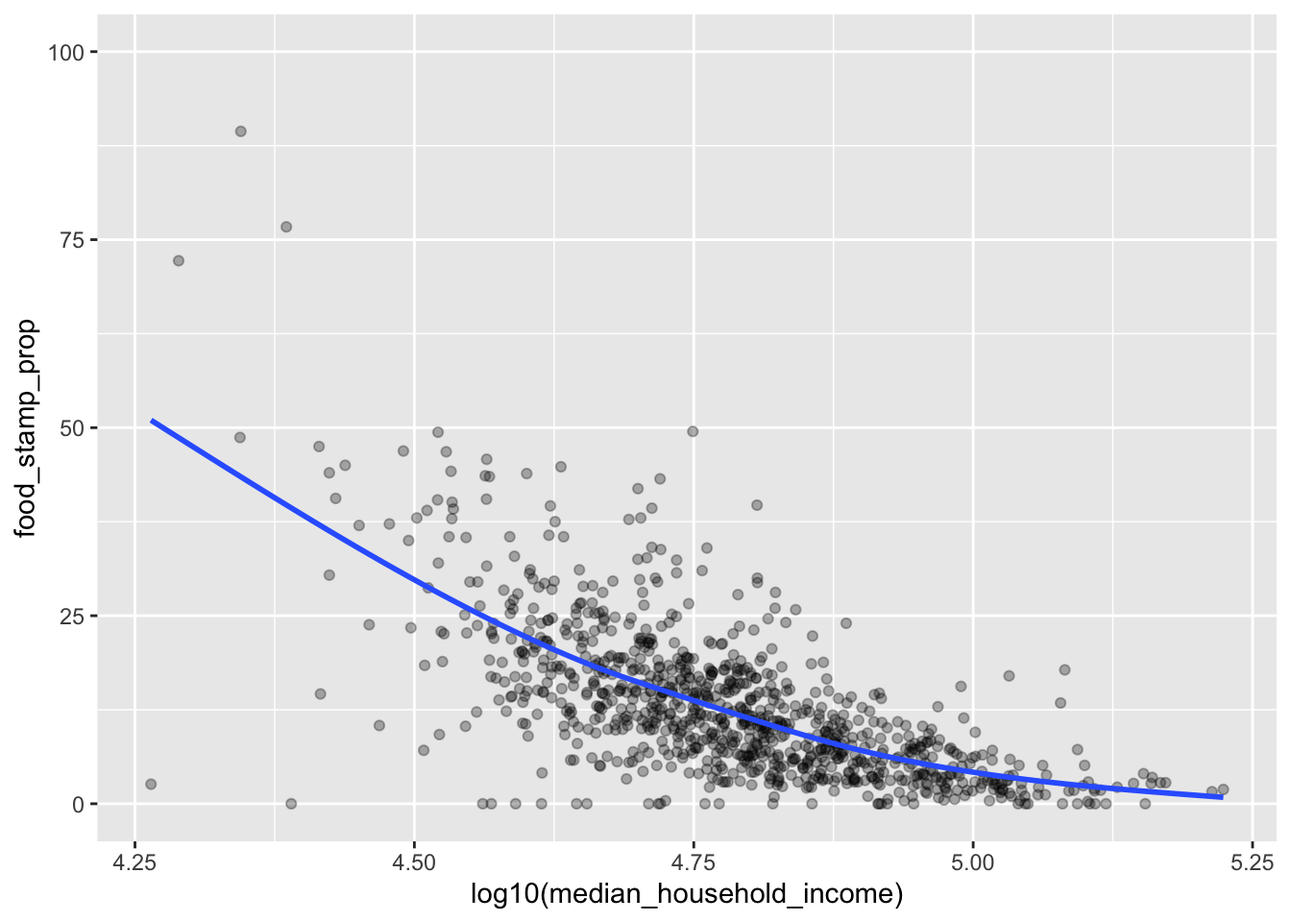
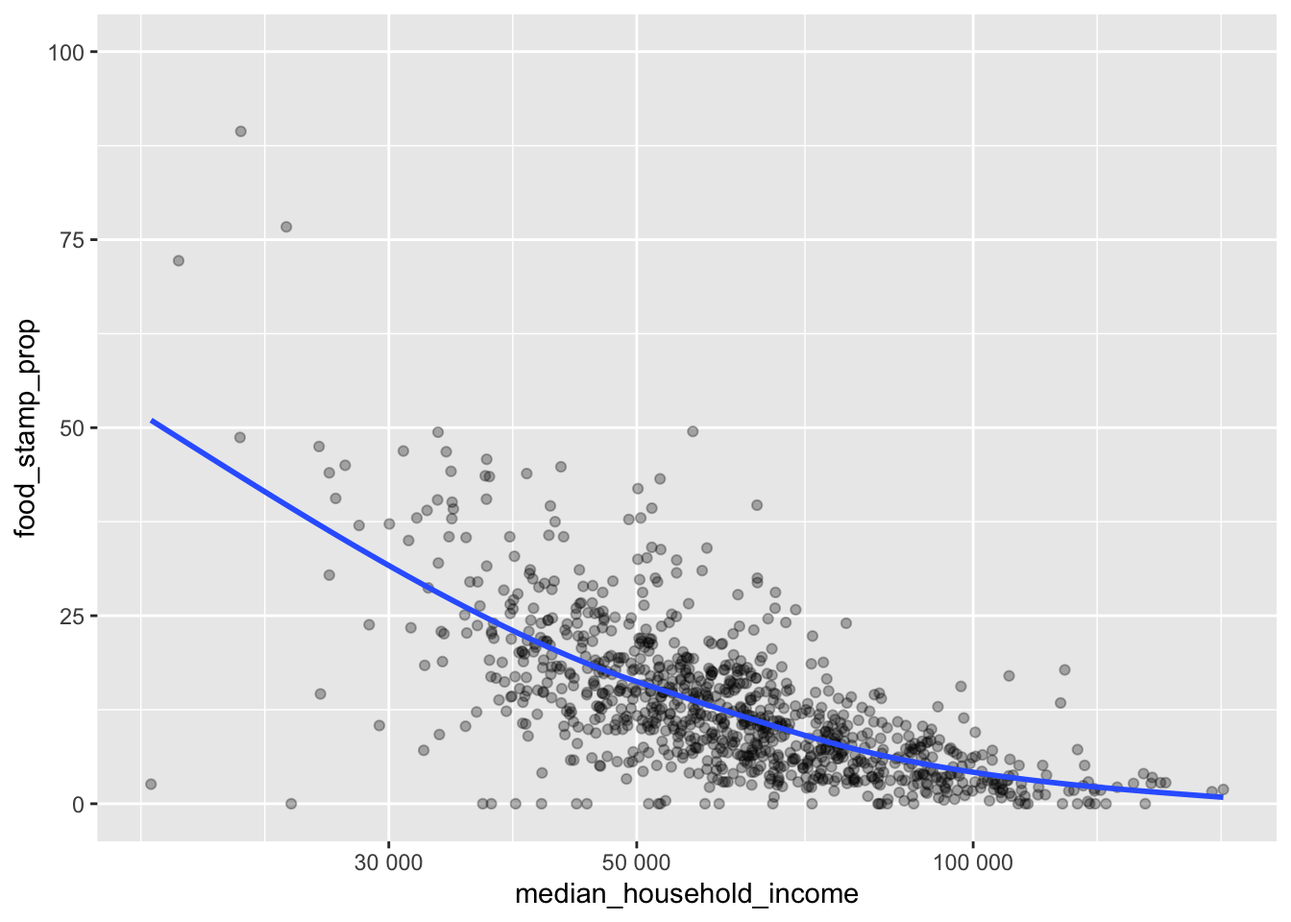
finished!! all lessons edited twice. I'm sure there's still some more minor mistakes that I will find, but I think it's ready for videos now.

diff --git a/_site/lessons/lesson13_eda_w_tidyverse.html b/_site/lessons/lesson13_eda_w_tidyverse.html
@@ -334,10 +334,10 @@ code span.wa { color: #60a0b0; font-weight: bold; font-style: italic; } /* Warni
 </section>
 <section id="importing-data" class="level1">
 <h1>Importing Data</h1>
-<p>We will work through some of the American Community Survey data from the U.S. Census Bureau. If you have not yet done so, download the ACS Supplemental Nutrition Assistance Program (SNAP) benefits data (“FOOD STAMPS/Supplemental Nutrition Assistance Program (SNAP) 2012-2016 American Community Survey 5-Year Estimates”) for 2021 (use the steps we worked out in Lesson 08).</p>
+<p>We will work through some of the <a href="https://www.census.gov/programs-surveys/acs">American Community Survey</a> data from the U.S. Census Bureau. If you have not yet done so, download the ACS “food stamps” data (“FOOD STAMPS/Supplemental Nutrition Assistance Program (SNAP) American Community Survey 5-Year Estimates”) for 2021 (use the steps we worked out in Lesson 08).</p>
 <section id="the-raw-data" class="level2">
 <h2 class="anchored" data-anchor-id="the-raw-data">The Raw Data</h2>
-<p><em>You should have already done all this in lesson 8.</em> However, if you did not complete that exercise, download the data and metadata from GitHub. You should have a metadata file called <code>ACSST5Y2021.S2201-Column-Metadata.csv</code> which explains all the variable names and a data file called <code>ACSST5Y2021.S2201-Data.csv</code> that contains some of the features of interest.</p>
+<p><em>You should have already downloaded the raw data in lesson 8.</em> However, if you did not complete that exercise, download the data and metadata <a href="https://github.com/gabrielodom/PHC6701_r4ds/tree/main/_data">from the GitHub repository for this class</a>. You should have a metadata file called <code>ACSST5Y2021.S2201-Column-Metadata.csv</code> which explains all the variable names and a data file called <code>ACSST5Y2021.S2201-Data.csv</code> that contains some of the features of interest.</p>
 </section>
 <section id="read-the-data" class="level2">
 <h2 class="anchored" data-anchor-id="read-the-data">Read the Data</h2>
@@ -419,7 +419,7 @@ chr (2): Column Name, Label
 #   S2201_C01_010E &lt;dbl&gt;, S2201_C01_010M &lt;dbl&gt;, S2201_C01_011E &lt;dbl&gt;, …</code></pre>
 </div>
 </div>
-<p>There are 457 columns of information (459 - 2 index columns), and it looks like all of these columns have bizarre codes for their names. Also, many of the columns are numeric and many are character (some columns that are character shouldn’t be).</p>
+<p>There are 457 columns of information (459 - 2 index columns), and it looks like all of these columns have bizarre codes for their names.</p>
 <p>Now for the metadata:</p>
 <div class="cell">
 <div class="sourceCode cell-code" id="cb10"><pre class="sourceCode r code-with-copy"><code class="sourceCode r"><span id="cb10-1"><a href="#cb10-1" aria-hidden="true" tabindex="-1"></a>FLmetadata_df</span></code><button title="Copy to Clipboard" class="code-copy-button"><i class="bi"></i></button></pre></div>
@@ -441,6 +441,19 @@ chr (2): Column Name, Label
 </div>
 </div>
 <p>The first column of this data looks exactly like the crazy column names of the main data set. This information should allow us to find out what the column codes mean.</p>
+<div class="callout-note callout callout-style-default callout-captioned">
+<div class="callout-header d-flex align-content-center">
+<div class="callout-icon-container">
+<i class="callout-icon"></i>
+</div>
+<div class="callout-caption-container flex-fill">
+Exercise
+</div>
+</div>
+<div class="callout-body-container callout-body" title="Exercise">
+<p>Spend some time looking through the columns of this dataset and their classes. Many of the columns are numeric and many are character; some columns that are character shouldn’t be. Discuss this with your neighbours and think about solutions to figure out how to detect columns that should be numeric but are not.</p>
+</div>
+</div>
 </section>
 <section id="updated-summary-function" class="level3">
 <h3 class="anchored" data-anchor-id="updated-summary-function">Updated Summary Function</h3>
@@ -463,7 +476,7 @@ chr (2): Column Name, Label
 </section>
 <section id="apply-to-the-raw-data" class="level3">
 <h3 class="anchored" data-anchor-id="apply-to-the-raw-data">Apply to the Raw Data</h3>
-<p>Now that we have an updated function to take summaries of a tibble across the columns, let’s apply it to each column of the data (because this will print almost 500 results, we will to a random set of 50 columns):</p>
+<p>Now that we have an updated function to take summaries of a tibble across the columns, let’s apply it to each column of the data (because this will print almost 500 results, we will apply this function to a random set of 50 columns as an example):</p>
 <div class="cell">
 <div class="sourceCode cell-code" id="cb13"><pre class="sourceCode r code-with-copy"><code class="sourceCode r"><span id="cb13-1"><a href="#cb13-1" aria-hidden="true" tabindex="-1"></a><span class="fu">set.seed</span>(<span class="dv">12345</span>)</span>
 <span id="cb13-2"><a href="#cb13-2" aria-hidden="true" tabindex="-1"></a><span class="co"># The first two columns are ZIP codes and geography IDs</span></span>
@@ -696,8 +709,21 @@ $S2201_C06_035E
 1013 </code></pre>
 </div>
 </div>
-<p>It looks like many of these columns (such as <code>S2201_C02_002M</code> or <code>S2201_C06_022E</code>) have numeric data stored as character information, probably because the symbols <code>"-"</code> and <code>"**"</code> are used in some columns (they may mark missing data).</p>
-<p>If we were planning to perform an analysis of all these features, then we should write code to go through these columns to 1) replace the <code>"-"</code> and <code>"**"</code> with <code>NA_real_</code>, and 2) transform these columns to numeric. However, we only need a few columns from this data set. If the columns we need have this issue, then we will fix it.</p>
+<p>It looks like many of these columns (such as <code>S2201_C02_002M</code> or <code>S2201_C06_022E</code>) have numeric data stored as character information, probably because the symbols <code>"-"</code>, <code>"**"</code>, and <code>"***"</code> are used in some columns. From my experience, these symbols mark various types of missing data.</p>
+<div class="callout-note callout callout-style-default callout-captioned">
+<div class="callout-header d-flex align-content-center">
+<div class="callout-icon-container">
+<i class="callout-icon"></i>
+</div>
+<div class="callout-caption-container flex-fill">
+Exercise
+</div>
+</div>
+<div class="callout-body-container callout-body" title="Exercise">
+<p>Find out what these symbols mean. Where should you look? Write the definitions of these symbols as comments in your analysis script, and state the source of this information.</p>
+</div>
+</div>
+<p>If we were planning to perform an analysis of all these features, then we should write code to go through these columns to 1) replace the <code>"-"</code> and <code>"**"</code> with <code>NA_real_</code>, and 2) transform these columns to numeric. However, we only need a few columns from this data set. Therefore, we will fix these issues only for the columns we need (after we find out what those columns are).</p>
 <p><br></p>
 <hr>
 <p><br></p>
@@ -709,7 +735,7 @@ $S2201_C06_035E
 <p>Because the column name look-up table and many of the data columns contain character information, we need to review a few basic functions from the <code>stringr</code> package (included in the <code>tidyverse</code>).</p>
 <section id="detecting-strings" class="level2">
 <h2 class="anchored" data-anchor-id="detecting-strings">Detecting Strings</h2>
-<p>From looking at the columns in the metadata table, it would probably be helpful to find if a word or phrase is contained in a character string. This is the function of <code>str_detect()</code>.</p>
+<p>From looking at the columns in the metadata table, it would probably be helpful to find if a word or phrase is contained in a character string. This is the function of <code>str_detect()</code>. As an example, let’s see if any of the features are specific to Hispanic households:</p>
 <div class="cell">
 <div class="sourceCode cell-code" id="cb15"><pre class="sourceCode r code-with-copy"><code class="sourceCode r"><span id="cb15-1"><a href="#cb15-1" aria-hidden="true" tabindex="-1"></a>FLmetadata_df <span class="sc">%&gt;%</span> </span>
 <span id="cb15-2"><a href="#cb15-2" aria-hidden="true" tabindex="-1"></a>  <span class="fu">pull</span>(Label) <span class="sc">%&gt;%</span> </span>
@@ -757,6 +783,7 @@ Exercises
 </div>
 <div class="callout-body-container callout-body" title="Exercises">
 <ol type="1">
+<li>I explained the code above in a short paragraph after the code. Is this the best way? (<em>Hint: think about how we document functions and why.</em>) Can you add a few comments to the code itself to explain what each line is doing?</li>
 <li>Try to find “HISPANIC” and “hispanic”. What can we do to modify the metadata so that one search will find all the rows we might want?</li>
 <li>Many of the rows in the meta-data are not going to be any use to use at all. Can you brainstorm a <code>stringr::</code> pipeline that will clean up the meta-data table to make it easier for us to go through?</li>
 </ol>
@@ -793,7 +820,20 @@ Exercises
 # ℹ 98 more rows</code></pre>
 </div>
 </div>
-<p>One tip for working with strings: DO NOT write the new object into the container holding the old object. Strings are incredibly difficult to work with at times, so make sure you can always go back a few steps. This is why I saved the new look-up table with a different name (personally, I usually append a number to the name of the object when I’m working with strings; then, when I’m sure I have done all the string clean-up I need, I save it with a better name).</p>
+<p>We certainly found more rows this time!</p>
+<div class="callout-important callout callout-style-default callout-captioned">
+<div class="callout-header d-flex align-content-center">
+<div class="callout-icon-container">
+<i class="callout-icon"></i>
+</div>
+<div class="callout-caption-container flex-fill">
+“Saving” your work
+</div>
+</div>
+<div class="callout-body-container callout-body">
+<p>When working with strings, <strong>DO NOT</strong> write the new object into the container holding the old object (don’t “overwrite” your data). Strings are incredibly difficult to work with at times, so make sure you can always go back a few steps. This is why I saved the new look-up table with a different name. Personally, I usually append a number to the name of the object when I’m working with strings; then, when I’m sure I have done all the string clean-up I need, I save it with a better name and use <code>rm()</code> to remove the intermediate steps I no longer need.</p>
+</div>
+</div>
 <p>In the dictionary/look-up table, we have all the information necessary to find the columns we want. However, before we dig into the look-up table, we notice that all of the rows are copied twice: one for estimate, and one for margin of error. For now, we aren’t interested in the margins of error, so let’s remove these rows:</p>
 <div class="cell">
 <div class="sourceCode cell-code" id="cb21"><pre class="sourceCode r code-with-copy"><code class="sourceCode r"><span id="cb21-1"><a href="#cb21-1" aria-hidden="true" tabindex="-1"></a>FLmetadata3_df <span class="ot">&lt;-</span> </span>
@@ -833,7 +873,7 @@ Exercises
 <div class="callout-body-container callout-body" title="Exercises">
 <ol type="1">
 <li>The meta-data table has information on whether the number is an estimate of the raw count (<code>total!!</code>) or an estimate of the population proportion (<code>percent!!</code>). Use <code>stringr::</code> functions to remove this information from the “Label” column and add it to its own column.</li>
-<li>Can you break the “Label” column into any other pieces without losing information?</li>
+<li>Can you easily break the “Label” column into any other pieces without losing information?</li>
 </ol>
 </div>
 </div>
@@ -844,7 +884,7 @@ Exercises
 </section>
 <section id="sanity-checks" class="level1">
 <h1>Sanity Checks</h1>
-<p>Often we have some idea of a pre-existing relationship in the data; e.g, we know that there should be a strong negative relationship between food stamp use and household income within a ZIP code. If our data does not show something we know to be true, then we check that we have the right data and that we are reading the data dictionary correctly.</p>
+<p>Often we have some idea of a pre-existing relationship in the data; e.g, we know that there should be a clear negative relationship between food stamp use and household income within a ZIP code. If our data does not show something we know to be true, then we check that we have the right data and that we are reading the data dictionary correctly.</p>
 <section id="find-the-food-stamps-metric" class="level2">
 <h2 class="anchored" data-anchor-id="find-the-food-stamps-metric">Find the “Food Stamps” Metric</h2>
 <p>We will use the same process as above (<code>mutate()</code> + <code>str_detect()</code> + <code>filter()</code>) to find all the columns that measure food stamp usage as a percentage:</p>
@@ -880,7 +920,7 @@ Exercises
 <pre><code>[1] "estimate!!percent households receiving food stamps/snap!!households"</code></pre>
 </div>
 </div>
-<p>That label is correct, and it matches to the feature <code>"estimate!!percent households receiving food stamps/snap!!households"</code>. Let’s save this column ID.</p>
+<p>That label is correct, so let’s save this column ID.</p>
 <div class="cell">
 <div class="sourceCode cell-code" id="cb27"><pre class="sourceCode r code-with-copy"><code class="sourceCode r"><span id="cb27-1"><a href="#cb27-1" aria-hidden="true" tabindex="-1"></a>foodStampsColID_char <span class="ot">&lt;-</span> <span class="st">"S2201_C04_001E"</span></span></code><button title="Copy to Clipboard" class="code-copy-button"><i class="bi"></i></button></pre></div>
 </div>
@@ -938,7 +978,12 @@ Exercises
 <pre><code>[1] "estimate!!total!!households!!household income in the past 12 months (in 2021 inflation-adjusted dollars)!!median income (dollars)"</code></pre>
 </div>
 </div>
-<p>Now that we have the two columns we care about, we can subset the SNAP values data to include only the following columns: ZIP code (technically the <a href="https://www.census.gov/programs-surveys/geography/guidance/geo-areas/zctas.html">ZCTA</a>), proportion of households receiving food stamps in that area, and the median household income for that area.</p>
+<p>Now that we have the two columns we care about, we can subset the SNAP values data to include only the following columns:</p>
+<ul>
+<li>ZIP code (technically the <a href="https://www.census.gov/programs-surveys/geography/guidance/geo-areas/zctas.html">ZCTA</a>),</li>
+<li>proportion of households receiving food stamps in that area, and</li>
+<li>the median household income for that area.</li>
+</ul>
 <div class="cell">
 <div class="sourceCode cell-code" id="cb34"><pre class="sourceCode r code-with-copy"><code class="sourceCode r"><span id="cb34-1"><a href="#cb34-1" aria-hidden="true" tabindex="-1"></a>FLallZIP_df <span class="sc">%&gt;%</span> </span>
 <span id="cb34-2"><a href="#cb34-2" aria-hidden="true" tabindex="-1"></a>  <span class="fu">select</span>(</span>
@@ -966,27 +1011,25 @@ Exercises
 10 ZCTA5 32034 7.3             87047                  
 # ℹ 1,003 more rows</code></pre>
 </div>
-<div class="sourceCode cell-code" id="cb36"><pre class="sourceCode r code-with-copy"><code class="sourceCode r"><span id="cb36-1"><a href="#cb36-1" aria-hidden="true" tabindex="-1"></a><span class="co"># </span><span class="al">NOTE</span><span class="co">: after I wrote this lesson, the tidyverse developers modified how the</span></span>
-<span id="cb36-2"><a href="#cb36-2" aria-hidden="true" tabindex="-1"></a><span class="co">#   select() function works. We should now use the all_of() helper functions.</span></span>
-<span id="cb36-3"><a href="#cb36-3" aria-hidden="true" tabindex="-1"></a><span class="co">#   I included the original way (which causes warnings), but commented it out.</span></span></code><button title="Copy to Clipboard" class="code-copy-button"><i class="bi"></i></button></pre></div>
 </div>
+<p>NOTE: after I wrote this lesson, the Tidyverse developers modified how the <code>select()</code> function works. We should now use the <code>all_of()</code> helper functions. I included the original way (which now causes warnings), but I commented it out.</p>
 </section>
 <section id="subset-and-mutate-the-data" class="level2">
 <h2 class="anchored" data-anchor-id="subset-and-mutate-the-data">Subset and Mutate the Data</h2>
-<p>Notice that the atomic class of the <code>median_household_income</code> column is character. We see that some of the values are missing. Subsequently, it looks like have numeric information stored in character columns because a letter or symbol was used instead of <code>NA</code>. For atomic data, we can follow the type conversion rules to demote this character information to numeric (which triggers a warning):</p>
+<p>Notice that the atomic classes of the <code>food_stamp_prop</code> and <code>median_household_income</code> columns are both character. We see that some of the values are “missing” (as shown by the <code>"-"</code> symbol). Subsequently, it looks like have numeric information stored in character columns because a letter or symbol was used instead of <code>NA</code>. For atomic data, we can follow the type conversion rules to demote this character information to numeric (which triggers a warning):</p>
 <div class="cell">
-<div class="sourceCode cell-code" id="cb37"><pre class="sourceCode r code-with-copy"><code class="sourceCode r"><span id="cb37-1"><a href="#cb37-1" aria-hidden="true" tabindex="-1"></a>incomeSNAP_df <span class="ot">&lt;-</span> </span>
-<span id="cb37-2"><a href="#cb37-2" aria-hidden="true" tabindex="-1"></a>  FLallZIP_df <span class="sc">%&gt;%</span> </span>
-<span id="cb37-3"><a href="#cb37-3" aria-hidden="true" tabindex="-1"></a>  <span class="fu">select</span>(</span>
-<span id="cb37-4"><a href="#cb37-4" aria-hidden="true" tabindex="-1"></a>    <span class="at">zcta =</span> NAME,</span>
-<span id="cb37-5"><a href="#cb37-5" aria-hidden="true" tabindex="-1"></a>    <span class="at">food_stamp_prop =</span> <span class="fu">all_of</span>(foodStampsColID_char),</span>
-<span id="cb37-6"><a href="#cb37-6" aria-hidden="true" tabindex="-1"></a>    <span class="at">median_household_income =</span> <span class="fu">all_of</span>(incomeColID_char)</span>
-<span id="cb37-7"><a href="#cb37-7" aria-hidden="true" tabindex="-1"></a>  )  <span class="sc">%&gt;%</span> </span>
-<span id="cb37-8"><a href="#cb37-8" aria-hidden="true" tabindex="-1"></a>  <span class="co"># drop character to numeric</span></span>
-<span id="cb37-9"><a href="#cb37-9" aria-hidden="true" tabindex="-1"></a>  <span class="fu">mutate</span>(</span>
-<span id="cb37-10"><a href="#cb37-10" aria-hidden="true" tabindex="-1"></a>    <span class="at">food_stamp_prop =</span> <span class="fu">as.numeric</span>(food_stamp_prop),</span>
-<span id="cb37-11"><a href="#cb37-11" aria-hidden="true" tabindex="-1"></a>    <span class="at">median_household_income =</span> <span class="fu">as.numeric</span>(median_household_income)</span>
-<span id="cb37-12"><a href="#cb37-12" aria-hidden="true" tabindex="-1"></a>  )</span></code><button title="Copy to Clipboard" class="code-copy-button"><i class="bi"></i></button></pre></div>
+<div class="sourceCode cell-code" id="cb36"><pre class="sourceCode r code-with-copy"><code class="sourceCode r"><span id="cb36-1"><a href="#cb36-1" aria-hidden="true" tabindex="-1"></a>incomeSNAP_df <span class="ot">&lt;-</span> </span>
+<span id="cb36-2"><a href="#cb36-2" aria-hidden="true" tabindex="-1"></a>  FLallZIP_df <span class="sc">%&gt;%</span> </span>
+<span id="cb36-3"><a href="#cb36-3" aria-hidden="true" tabindex="-1"></a>  <span class="fu">select</span>(</span>
+<span id="cb36-4"><a href="#cb36-4" aria-hidden="true" tabindex="-1"></a>    <span class="at">zcta =</span> NAME,</span>
+<span id="cb36-5"><a href="#cb36-5" aria-hidden="true" tabindex="-1"></a>    <span class="at">food_stamp_prop =</span> <span class="fu">all_of</span>(foodStampsColID_char),</span>
+<span id="cb36-6"><a href="#cb36-6" aria-hidden="true" tabindex="-1"></a>    <span class="at">median_household_income =</span> <span class="fu">all_of</span>(incomeColID_char)</span>
+<span id="cb36-7"><a href="#cb36-7" aria-hidden="true" tabindex="-1"></a>  )  <span class="sc">%&gt;%</span> </span>
+<span id="cb36-8"><a href="#cb36-8" aria-hidden="true" tabindex="-1"></a>  <span class="co"># drop character to numeric</span></span>
+<span id="cb36-9"><a href="#cb36-9" aria-hidden="true" tabindex="-1"></a>  <span class="fu">mutate</span>(</span>
+<span id="cb36-10"><a href="#cb36-10" aria-hidden="true" tabindex="-1"></a>    <span class="at">food_stamp_prop =</span> <span class="fu">as.numeric</span>(food_stamp_prop),</span>
+<span id="cb36-11"><a href="#cb36-11" aria-hidden="true" tabindex="-1"></a>    <span class="at">median_household_income =</span> <span class="fu">as.numeric</span>(median_household_income)</span>
+<span id="cb36-12"><a href="#cb36-12" aria-hidden="true" tabindex="-1"></a>  )</span></code><button title="Copy to Clipboard" class="code-copy-button"><i class="bi"></i></button></pre></div>
 <div class="cell-output cell-output-stderr">
 <pre><code>Warning: There were 2 warnings in `mutate()`.
 The first warning was:
@@ -995,7 +1038,7 @@ Caused by warning:
 ! NAs introduced by coercion
 ℹ Run `dplyr::last_dplyr_warnings()` to see the 1 remaining warning.</code></pre>
 </div>
-<div class="sourceCode cell-code" id="cb39"><pre class="sourceCode r code-with-copy"><code class="sourceCode r"><span id="cb39-1"><a href="#cb39-1" aria-hidden="true" tabindex="-1"></a>incomeSNAP_df</span></code><button title="Copy to Clipboard" class="code-copy-button"><i class="bi"></i></button></pre></div>
+<div class="sourceCode cell-code" id="cb38"><pre class="sourceCode r code-with-copy"><code class="sourceCode r"><span id="cb38-1"><a href="#cb38-1" aria-hidden="true" tabindex="-1"></a>incomeSNAP_df</span></code><button title="Copy to Clipboard" class="code-copy-button"><i class="bi"></i></button></pre></div>
 <div class="cell-output cell-output-stdout">
 <pre><code># A tibble: 1,013 × 3
    zcta        food_stamp_prop median_household_income
@@ -1019,21 +1062,35 @@ Caused by warning:
 <h2 class="anchored" data-anchor-id="plotting-the-relationship">Plotting the Relationship</h2>
 <p>Finally, we have data we can plot!</p>
 <div class="cell">
-<div class="sourceCode cell-code" id="cb41"><pre class="sourceCode r code-with-copy"><code class="sourceCode r"><span id="cb41-1"><a href="#cb41-1" aria-hidden="true" tabindex="-1"></a><span class="fu">ggplot</span>(<span class="at">data =</span> incomeSNAP_df) <span class="sc">+</span></span>
-<span id="cb41-2"><a href="#cb41-2" aria-hidden="true" tabindex="-1"></a>  <span class="fu">aes</span>(<span class="at">x =</span> median_household_income, <span class="at">y =</span> food_stamp_prop) <span class="sc">+</span></span>
-<span id="cb41-3"><a href="#cb41-3" aria-hidden="true" tabindex="-1"></a>  <span class="fu">geom_point</span>()</span></code><button title="Copy to Clipboard" class="code-copy-button"><i class="bi"></i></button></pre></div>
+<div class="sourceCode cell-code" id="cb40"><pre class="sourceCode r code-with-copy"><code class="sourceCode r"><span id="cb40-1"><a href="#cb40-1" aria-hidden="true" tabindex="-1"></a><span class="fu">ggplot</span>(<span class="at">data =</span> incomeSNAP_df) <span class="sc">+</span></span>
+<span id="cb40-2"><a href="#cb40-2" aria-hidden="true" tabindex="-1"></a>  <span class="fu">aes</span>(<span class="at">x =</span> median_household_income, <span class="at">y =</span> food_stamp_prop) <span class="sc">+</span></span>
+<span id="cb40-3"><a href="#cb40-3" aria-hidden="true" tabindex="-1"></a>  <span class="fu">geom_point</span>()</span></code><button title="Copy to Clipboard" class="code-copy-button"><i class="bi"></i></button></pre></div>
 <div class="cell-output-display">
 <p><img src="lesson13_eda_w_tidyverse_files/figure-html/unnamed-chunk-18-1.png" class="img-fluid" width="672"></p>
 </div>
 </div>
-<p>This clearly shows a negative relationship between income and proportion of residents on food stamps. However, the x-axis shows a strong tail, so let’s try to clean this up with a log transformation (also, the relationship looks non-linear, so I’ve added a LOESS estimate in blue):</p>
+<p>This clearly shows a negative relationship between income and proportion of residents on food stamps. However, the x-axis shows a strong tail, so let’s try to clean this up with a log transformation. I add the log labels automatically using the <code>label_number()</code> function from the <code>scales::</code> package (this is installed automatically when you install the Tidyverse, but I haven’t loaded it with the <code>library()</code> command, so I have to type the name of the package explicitly). Also, the relationship looks non-linear, so I’ve added a LOESS estimate in blue.</p>
 <div class="cell">
-<div class="sourceCode cell-code" id="cb42"><pre class="sourceCode r code-with-copy"><code class="sourceCode r"><span id="cb42-1"><a href="#cb42-1" aria-hidden="true" tabindex="-1"></a><span class="fu">ggplot</span>(<span class="at">data =</span> incomeSNAP_df) <span class="sc">+</span></span>
-<span id="cb42-2"><a href="#cb42-2" aria-hidden="true" tabindex="-1"></a>  <span class="fu">aes</span>(<span class="at">x =</span> <span class="fu">log10</span>(median_household_income), <span class="at">y =</span> food_stamp_prop) <span class="sc">+</span></span>
-<span id="cb42-3"><a href="#cb42-3" aria-hidden="true" tabindex="-1"></a>  <span class="fu">geom_point</span>(<span class="at">alpha =</span> <span class="fl">0.3</span>) <span class="sc">+</span></span>
-<span id="cb42-4"><a href="#cb42-4" aria-hidden="true" tabindex="-1"></a>  <span class="fu">geom_smooth</span>(<span class="at">se =</span> <span class="cn">FALSE</span>)</span></code><button title="Copy to Clipboard" class="code-copy-button"><i class="bi"></i></button></pre></div>
+<div class="sourceCode cell-code" id="cb41"><pre class="sourceCode r code-with-copy"><code class="sourceCode r"><span id="cb41-1"><a href="#cb41-1" aria-hidden="true" tabindex="-1"></a><span class="fu">ggplot</span>(<span class="at">data =</span> incomeSNAP_df) <span class="sc">+</span></span>
+<span id="cb41-2"><a href="#cb41-2" aria-hidden="true" tabindex="-1"></a>  <span class="fu">aes</span>(<span class="at">x =</span> median_household_income, <span class="at">y =</span> food_stamp_prop) <span class="sc">+</span></span>
+<span id="cb41-3"><a href="#cb41-3" aria-hidden="true" tabindex="-1"></a>  <span class="fu">scale_x_log10</span>(<span class="at">labels =</span> scales<span class="sc">::</span><span class="fu">label_number</span>()) <span class="sc">+</span></span>
+<span id="cb41-4"><a href="#cb41-4" aria-hidden="true" tabindex="-1"></a>  <span class="fu">geom_point</span>(<span class="at">alpha =</span> <span class="fl">0.3</span>) <span class="sc">+</span></span>
+<span id="cb41-5"><a href="#cb41-5" aria-hidden="true" tabindex="-1"></a>  <span class="fu">geom_smooth</span>(<span class="at">se =</span> <span class="cn">FALSE</span>)</span></code><button title="Copy to Clipboard" class="code-copy-button"><i class="bi"></i></button></pre></div>
 <div class="cell-output-display">
 <p><img src="lesson13_eda_w_tidyverse_files/figure-html/unnamed-chunk-19-1.png" class="img-fluid" width="672"></p>
+</div>
+</div>
+<div class="callout-tip callout callout-style-default callout-captioned">
+<div class="callout-header d-flex align-content-center">
+<div class="callout-icon-container">
+<i class="callout-icon"></i>
+</div>
+<div class="callout-caption-container flex-fill">
+Tip
+</div>
+</div>
+<div class="callout-body-container callout-body">
+<p>If you need to use one function one time from a package that you have installed on your computer, you can use the <code>&lt;packName&gt;::&lt;funName&gt;</code> syntax. In the code above, I didn’t want to load the entire <code>scales</code> package for a function I’ll use only once, so I used <code>scales::label_number()</code> instead.</p>
 </div>
 </div>
 <p>In practice, at this point we would thoroughly inspect all of the features of interest, <em>and</em> plot their relationships with the outcomes of interest. However, we don’t have time to do this in class.</p>
@@ -1049,10 +1106,10 @@ Exercises
 <div class="callout-body-container callout-body" title="Exercises">
 <ol type="1">
 <li>Why did I turn off the error bands for the LOESS smoother? Discuss with one of the statistics / biostatistics students (<em>HINT: think about the assumptions of regression</em>).</li>
-<li>Import the ZIP code data for Miami-Dade and Broward counties.</li>
+<li>Import the ZIP code data for Miami-Dade and Broward counties. If you want, you can go find the Palm Beach county ZIP code data too.</li>
 <li>Merge these two county tibbles, and clean up the ZIP code column (if you haven’t already done this as part of your homework from Lessons 8 and 10).</li>
-<li>Use a <code>*_join()</code> function to create a single subset of the 2021 ACS SNAP data set with a column that indicates if the ZIP code belongs to one of these two counties.</li>
-<li>Re-build your plot of this relationship, adding a color to indicate the ZIP codes in Miami-Dade and Broward counties. Do you see any differences between the relationship between food stamp usage and median income for the ZIP codes in our counties vs the whole state?</li>
+<li>Use a <code>*_join()</code> function to create a single subset of the 2021 ACS SNAP data set with a “South Florida” indicator column that marks if the ZIP code belongs to one of these two (or three) counties.</li>
+<li>Re-build your plot of this relationship, adding a color to indicate the ZIP codes in Miami-Dade and Broward (and Palm Beach?) counties. Do you see any differences between the relationship between food stamp usage and median income for the ZIP codes in our counties vs the whole state?</li>
 </ol>
 </div>
 </div>
@@ -1076,7 +1133,7 @@ Exercises
 <div class="callout-body-container callout-body" title="Exercises">
 <ol type="1">
 <li>Work in groups of 3-4 to generate 8-10 hypotheses to explain the excess variability in the relationship between income and percentage of food stamp recipients within a ZIP code. Include at least 2 multiple-predictor hypotheses (y depends on x within/interacting with z).</li>
-<li>Use string detection to find out if any of the columns of the data are related to the driving factors in your hypotheses. If you do not have data measured to graphically test a hypothesis, remove it from your list (but keep a record of it). Make sure you still have 4-5 hypotheses left (if you don’t, go back to exercise 1).</li>
+<li>Use string detection to find out if any of the columns of the data are related to the driving factors in your hypotheses. If you do not have data measured to graphically test a hypothesis, remove it from your list (but keep a record of it). Make sure you still have 1-2 hypotheses left (if you don’t, go back to exercise 1 or go back to the ACS for more data).</li>
 <li>Graphically test the remaining hypotheses.</li>
 <li>Write a short report outlining following:
 <ul>

diff --git a/_site/lessons/lesson09_dplyr.html b/_site/lessons/lesson09_dplyr.html
@@ -1188,20 +1188,20 @@ Overwriting Data
 <span id="cb63-4"><a href="#cb63-4" aria-hidden="true" tabindex="-1"></a>  <span class="fu">mutate</span>(<span class="at">resid_delay =</span> delay <span class="sc">-</span> <span class="fu">mean</span>(delay)) <span class="sc">%&gt;%</span> </span>
 <span id="cb63-5"><a href="#cb63-5" aria-hidden="true" tabindex="-1"></a>  <span class="fu">arrange</span>(resid_delay)</span></code><button title="Copy to Clipboard" class="code-copy-button"><i class="bi"></i></button></pre></div>
 <div class="cell-output cell-output-stdout">
-<pre><code># A tibble: 104 × 3
+<pre><code># A tibble: 105 × 3
    dest     delay resid_delay
    &lt;chr&gt;    &lt;dbl&gt;       &lt;dbl&gt;
- 1 LEX   -22           -30.7 
- 2 PSP   -12.7         -21.5 
- 3 SNA    -7.87        -16.6 
- 4 STT    -3.84        -12.6 
- 5 ANC    -2.5         -11.2 
- 6 HNL    -1.37        -10.1 
- 7 SEA    -1.10         -9.83
- 8 MVY    -0.286        -9.02
- 9 LGB    -0.0620       -8.79
-10 SLC     0.176        -8.56
-# ℹ 94 more rows</code></pre>
+ 1 LEX   -22           -30.8 
+ 2 PSP   -12.7         -21.6 
+ 3 SNA    -7.87        -16.7 
+ 4 STT    -3.84        -12.7 
+ 5 ANC    -2.5         -11.3 
+ 6 HNL    -1.37        -10.2 
+ 7 SEA    -1.10         -9.95
+ 8 MVY    -0.286        -9.14
+ 9 LGB    -0.0620       -8.91
+10 SLC     0.176        -8.67
+# ℹ 95 more rows</code></pre>
 </div>
 </div>
 <p>We can always ungroup our data table with the <code>ungroup()</code> function.</p>
@@ -1359,7 +1359,7 @@ Overwriting Data
 <span id="cb77-3"><a href="#cb77-3" aria-hidden="true" tabindex="-1"></a>  <span class="fu">summarise</span>(<span class="at">distance_sd =</span> <span class="fu">sd</span>(distance)) <span class="sc">%&gt;%</span> </span>
 <span id="cb77-4"><a href="#cb77-4" aria-hidden="true" tabindex="-1"></a>  <span class="fu">arrange</span>(<span class="fu">desc</span>(distance_sd))</span></code><button title="Copy to Clipboard" class="code-copy-button"><i class="bi"></i></button></pre></div>
 <div class="cell-output cell-output-stdout">
-<pre><code># A tibble: 104 × 2
+<pre><code># A tibble: 105 × 2
    dest  distance_sd
    &lt;chr&gt;       &lt;dbl&gt;
  1 EGE         10.5 
@@ -1372,7 +1372,7 @@ Overwriting Data
  8 PHX          9.86
  9 LAX          9.66
 10 IND          9.46
-# ℹ 94 more rows</code></pre>
+# ℹ 95 more rows</code></pre>
 </div>
 <div class="sourceCode cell-code" id="cb79"><pre class="sourceCode r code-with-copy"><code class="sourceCode r"><span id="cb79-1"><a href="#cb79-1" aria-hidden="true" tabindex="-1"></a>not_cancelled <span class="sc">%&gt;%</span> </span>
 <span id="cb79-2"><a href="#cb79-2" aria-hidden="true" tabindex="-1"></a>  <span class="fu">group_by</span>(year, month, day) <span class="sc">%&gt;%</span> </span>
@@ -1412,7 +1412,7 @@ Overwriting Data
 <span id="cb82-3"><a href="#cb82-3" aria-hidden="true" tabindex="-1"></a>  <span class="fu">group_by</span>(dest) <span class="sc">%&gt;%</span></span>
 <span id="cb82-4"><a href="#cb82-4" aria-hidden="true" tabindex="-1"></a>  <span class="fu">summarise</span>(<span class="at">n =</span> <span class="fu">n</span>())</span></code><button title="Copy to Clipboard" class="code-copy-button"><i class="bi"></i></button></pre></div>
 <div class="cell-output cell-output-stdout">
-<pre><code># A tibble: 104 × 2
+<pre><code># A tibble: 105 × 2
    dest      n
    &lt;chr&gt; &lt;int&gt;
  1 ABQ     254
@@ -1425,13 +1425,13 @@ Overwriting Data
  8 BDL     412
  9 BGR     358
 10 BHM     269
-# ℹ 94 more rows</code></pre>
+# ℹ 95 more rows</code></pre>
 </div>
 <div class="sourceCode cell-code" id="cb84"><pre class="sourceCode r code-with-copy"><code class="sourceCode r"><span id="cb84-1"><a href="#cb84-1" aria-hidden="true" tabindex="-1"></a><span class="co"># use</span></span>
 <span id="cb84-2"><a href="#cb84-2" aria-hidden="true" tabindex="-1"></a>not_cancelled <span class="sc">%&gt;%</span> </span>
 <span id="cb84-3"><a href="#cb84-3" aria-hidden="true" tabindex="-1"></a>  <span class="fu">count</span>(dest)</span></code><button title="Copy to Clipboard" class="code-copy-button"><i class="bi"></i></button></pre></div>
 <div class="cell-output cell-output-stdout">
-<pre><code># A tibble: 104 × 2
+<pre><code># A tibble: 105 × 2
    dest      n
    &lt;chr&gt; &lt;int&gt;
  1 ABQ     254
@@ -1444,7 +1444,7 @@ Overwriting Data
  8 BDL     412
  9 BGR     358
 10 BHM     269
-# ℹ 94 more rows</code></pre>
+# ℹ 95 more rows</code></pre>
 </div>
 </div>
 <ol start="4" type="1">

diff --git a/README.md b/README.md
@@ -1,3 +1,3 @@
 # Source Code for PHC6701 Course Notes
 
-The course notes are published here: <https://gabrielodom.github.io/PHC6701_r4ds/>
+This material is for the course "R for Health Data Science" (formerly known as "Advanced R for the Health Sciences"). The course notes are published here: <https://gabrielodom.github.io/PHC6701_r4ds/>
